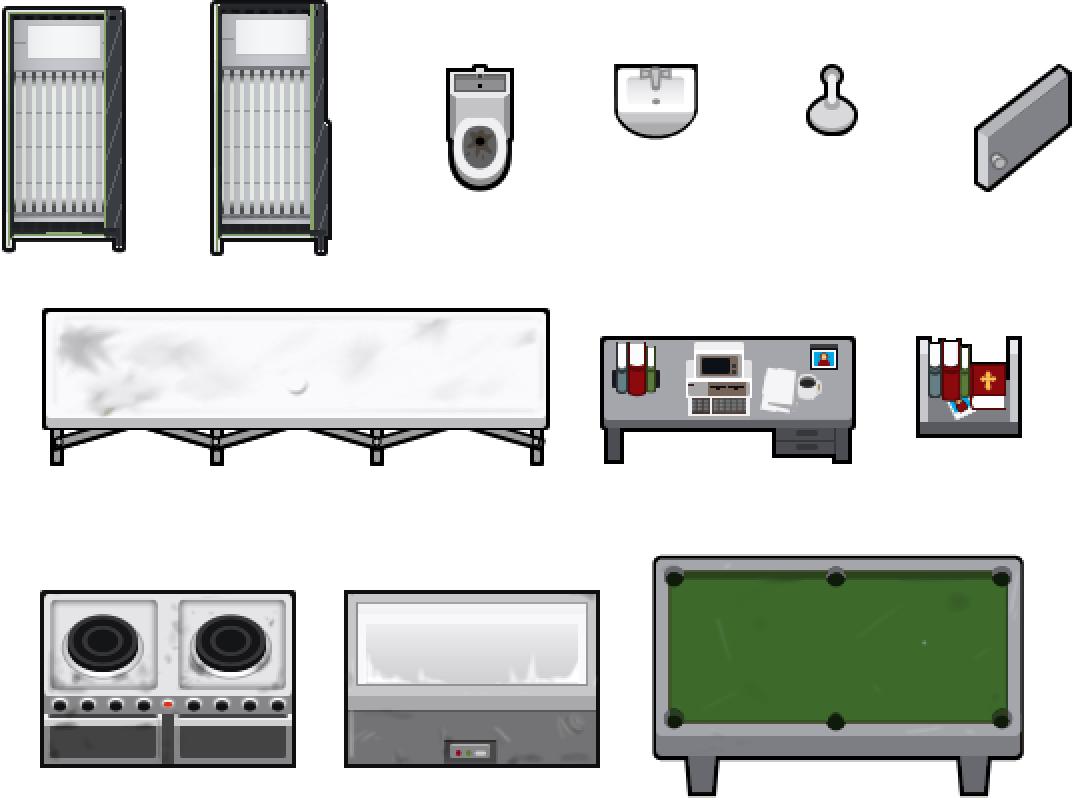
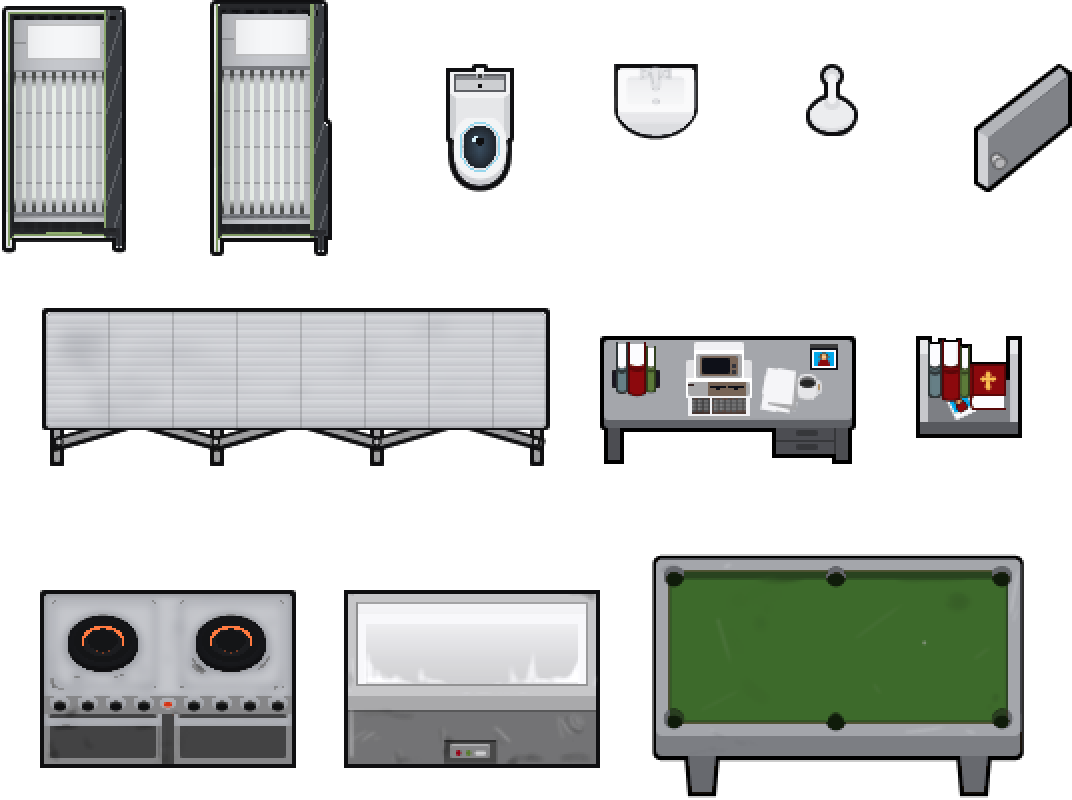
Draw the wash fixtures, canteen surfaces, cooker and cell doors by hand
Each is drawn from what the game's own sprite shows: a bowl rim, a hob
ring, a table top. Stains go and fittings stay, because a stain is warm
and a fitting is neutral.

Rotate type 1 has three pictures far more often than four. Measured over
233 sprites the fourth resembles its sprite three times in ten, so it is
claimed only when it matches the third. A small sprite inside another's
picture that shares its colours is a reused texture and follows its host,
which removes the white square the crate label left on the canteen table.

diff --git a/tools/skin.py b/tools/skin.py
@@ -42,7 +42,7 @@ ACCENT_ORDER = list(ACCENTS)
 # the outline, the size and where the light falls, and everything inside the
 # outline is drawn again. Because it works from the outline it holds for every
 # view of an object and on every sheet.
-REMAKES = ("none", "pod", "slab", "console", "sanitary", "rack", "core", "crate", "bulkhead", "seat", "emitter", "vehicle", "glass", "tray", "paintdoor")
+REMAKES = ("none", "pod", "slab", "console", "sanitary", "rack", "core", "crate", "bulkhead", "seat", "emitter", "vehicle", "glass", "tray", "paintdoor", "fixture", "surface", "hob", "bars")
 WHITE = [(0.00, (40, 41, 44)), (0.45, (150, 152, 156)), (0.80, (226, 227, 230)), (1.00, (250, 250, 251))]
 
 
@@ -150,6 +150,83 @@ def remake(out, lum, solid, dist, arche, accent, rgb_in, owner=None):
             sheen = np.clip(1.10 - 0.25 * (yy - ys.min()) / max(1, ys.max() - ys.min()), 0.85, 1.10)[..., None]
             px[deep] = np.clip(px[deep] * sheen[deep], 0, 255)
             px[m & (d >= 3.2) & (d < 4.2)] = tint * 0.8
+        elif kind == "fixture":
+            # Wash fixtures. Porcelain comes out as clean white composite with the
+            # game's broad shading but none of its stains, the fittings as chrome,
+            # and a bowl as dark glass with one thin line of light round its rim.
+            h_, s_, v_ = hsv(rgb_in[box])
+            # A stain is warm and a fitting is neutral, so only warm pixels are
+            # smoothed away. Taps, basin lines, drains and drainer ridges are
+            # neutral grey and keep every pixel of their shading.
+            soft = nd.gaussian_filter(np.where(m, l, float(l[m].mean())), 2.5)
+            stain = m & (s_ > 0.10) & ((h_ < 70) | (h_ > 320))
+            tone = np.where(stain, np.maximum(soft, l), l)
+            shell = m & (tone > 0.55) & ((s_ < 0.30) | stain)
+            px[shell] = ramp(WHITE, np.clip(0.30 + 0.72 * tone, 0, 1)[shell])
+            chrome = m & (s_ < 0.18) & (l > 0.28) & (l <= 0.55)
+            px[chrome] = ramp(STEEL, np.clip(0.30 + 1.15 * (l - 0.28) / 0.27 * 0.6, 0, 1)[chrome])
+            pit = nd.binary_opening(m & (d >= 3) & (l < 0.48), iterations=1)
+            pits, count = nd.label(pit)
+            for j in range(1, count + 1):
+                bowl = pits == j
+                if bowl.sum() < 40:
+                    continue
+                bowl = nd.binary_fill_holes(nd.binary_closing(bowl, iterations=2)) & m
+                by, bx = np.nonzero(bowl)
+                depth = nd.distance_transform_edt(bowl)
+                glass = np.array([30, 34, 40.0])[None, :] + (depth[bowl] / max(1.0, depth.max()))[:, None] * np.array([26, 40, 52.0])
+                px[bowl] = glass
+                glint = bowl & (np.hypot(yy - (by.min() + 0.32 * (by.max() - by.min())), xx - (bx.min() + 0.36 * (bx.max() - bx.min()))) < 1.6)
+                px[glint] = np.array([210, 236, 246.0])
+                lip = nd.binary_dilation(bowl, iterations=2) & ~nd.binary_dilation(bowl, iterations=1) & m
+                px[lip] = np.array([150, 214, 236.0])
+        elif kind == "surface":
+            # Canteen tables, benches and serving counters. The top is one
+            # manufactured sheet: the game's broad light without its smears, a
+            # brushed grain along its length and a panel joint every metre.
+            h_, s_, v_ = hsv(rgb_in[box])
+            top = nd.binary_opening(m & (l > 0.58) & (s_ < 0.22), iterations=2)
+            if top.any():
+                ty, tx = np.nonzero(top)
+                wide = (tx.max() - tx.min()) >= (ty.max() - ty.min())
+                soft = nd.gaussian_filter(np.where(top, l, float(l[top].mean())), 3.0)
+                run = xx if wide else yy
+                over = yy if wide else xx
+                grain = (((over * 2654435761) % 7) / 7.0 - 0.5) * 0.035
+                px[top] = ramp(STEEL, np.clip(0.74 + 0.22 * soft + grain, 0, 1)[top])
+                joint = top & ((run - (tx.min() if wide else ty.min())) % 32 == 31)
+                px[joint] *= 0.86
+                edge = top & ~nd.binary_erosion(top, iterations=1)
+                px[edge] *= 0.90
+        elif kind == "hob":
+            # An induction cooker. Each ring the game drew becomes a disc of black
+            # glass with one fine heat line; the steel round it is cleaned.
+            h_, s_, v_ = hsv(rgb_in[box])
+            steel = m & (l > 0.55) & (s_ < 0.22)
+            soft = nd.gaussian_filter(np.where(m, l, float(l[m].mean())), 2.0)
+            px[steel] = ramp(STEEL, np.clip(0.70 + 0.26 * soft, 0, 1)[steel])
+            dark = nd.binary_opening(m & (d >= 3) & (l < 0.32), iterations=1)
+            rings, count = nd.label(nd.binary_fill_holes(nd.binary_closing(dark, iterations=2)))
+            for j, sl in enumerate(nd.find_objects(rings), 1):
+                disc = rings == j
+                area = disc.sum()
+                hh, ww = sl[0].stop - sl[0].start, sl[1].stop - sl[1].start
+                if area < 150 or not 0.6 < hh / max(1, ww) < 1.6 or not 0.62 < area / (hh * ww) < 0.92:
+                    continue                 # a ring is round; the oven door and the shadows are not
+                cy, cx = (sl[0].start + sl[0].stop - 1) / 2, (sl[1].start + sl[1].stop - 1) / 2
+                # the game draws a hob as an ellipse, so the heat line is one too
+                r = np.hypot((yy - cy) / (hh / 2), (xx - cx) / (ww / 2))
+                px[disc] = np.array([20, 21, 24.0])[None, :] + (np.clip(1 - r, 0, 1)[disc] * 14)[:, None]
+                px[disc & (np.abs(r - 0.60) < 1.5 / min(hh, ww))] = np.array([255, 122, 64.0])
+                px[disc & (np.abs(r - 0.28) < 1.2 / min(hh, ww))] = np.array([120, 58, 34.0])
+        elif kind == "bars":
+            # A cell door. Bars in polished steel, the wooden frame in graphite,
+            # and the colour band untouched.
+            h_, s_, v_ = hsv(rgb_in[box])
+            bar = m & (s_ < 0.20) & (l > 0.45)
+            px[bar] = ramp(STEEL, np.clip(0.5 + (l - 0.62) * 2.0, 0, 1)[bar])
+            frame = m & (h_ >= 8) & (h_ <= 50) & (s_ > 0.25) & (v_ < 0.50)
+            px[frame] = ramp(PANEL, np.clip(0.25 + 1.2 * l, 0, 1)[frame])
         elif kind == "console":
             # Everything the base pass made of the object stays. The one addition
             # is power: a display the game drew, vivid green or cyan or the paler

diff --git a/tools/gen_assets.py b/tools/gen_assets.py
@@ -65,6 +65,11 @@ PURPOSE = tuple((skin.ACCENT_ORDER.index(k), re.compile(v)) for k, v in PURPOSE)
 # Which kinds of object are rebuilt rather than recoloured, by name. First
 # match wins. See skin.REMAKES.
 REMADE = (
+    # drawn by hand, one object at a time, from what the game's own sprite shows
+    ("fixture", r"^(Toilet|Sink|ShowerHead|KitchenSink)$"),
+    ("surface", r"^(Table|TableSmall|Bench|BenchFullRotate|BenchSmallFullRotate|SmallBench|SmallTable|ServingTable|SmallServingTable)$"),
+    ("hob", r"^Cooker$"),
+    ("bars", r"^JailDoor\w*$"),
     ("none", r"GunRack|DumbbellRack|ShopShelfGoods|DoorMat|RoadGatePosts|LightningRod|Lighter|BoatDock|HorizontalBridge|Rotor|HeliInside|BoxingRing|CrateLabel|Sign$"),
     ("console", r"DoorControl|DoorServo|DoorTimer|MachineDoor|CabinetDoor|PhoneBooth|VideoCallBooth"),
     ("tray", r"MorgueSlab|Stretcher"),
@@ -100,6 +105,7 @@ def trim_maps(size, bank, drawn=None):
     accent, style, bare, arche, kept = (np.zeros(shape, np.uint8) for _ in range(5))
     owner = np.zeros(shape, np.int32)     # which picture a pixel belongs to: sprites that touch stay apart
     serial = [0]
+    claimed = {}                           # owner id -> the rectangle that claimed it
     gap = np.full(shape, 9999, np.int32)   # how far each claimed pixel sits from the sprite that claimed it
     found = [s for s in sprites(bank) if s[1] * CELL < size[0] and s[2] * CELL < size[1]]
     # Toolbar pictures and icons are often a crop of the object itself, so they go
@@ -107,11 +113,12 @@ def trim_maps(size, bank, drawn=None):
     found.sort(key=lambda f: not ("Toolbar" in f[0] or f[0].endswith("Icon")))
 
     def values(name):
-        base = re.sub(r"^(d_)?", "", name)
+        # a toolbar picture or an icon is classed as the object it shows
+        base = re.sub(r"(_?Tool[Bb]ar|Icon)$", "", re.sub(r"^(d_)?", "", name))
         return (next((i for i, rx in PURPOSE if rx.search(base)), 0),
                 zlib.crc32(base.encode()) % 4,
                 1 if NO_STRIP.match(name) or PAINTED.search(base) else 0,
-                0 if NO_STRIP.match(name) else next((i for i, rx in REMADE if rx.search(base)), 0),
+                next((i for i, rx in REMADE if rx.search(base)), 0) if (not NO_STRIP.match(name) or re.match(r"JailDoor", base)) else 0,
                 1 if KEEP.match(name) else 0)
 
     def write(rect, vals, far=0):
@@ -127,12 +134,60 @@ def trim_maps(size, bank, drawn=None):
                 m[y0:y1, x0:x1][win] = v
             serial[0] += 1
             owner[y0:y1, x0:x1][win] = serial[0]
+            claimed[serial[0]] = rect
             gap[y0:y1, x0:x1][win] = far
 
+    def likeness_sub(small, host):
+        """A patch against the part of its host around it: are the patch's colours the host's?"""
+        x, y, w, h = small
+        block = drawn[y * CELL:(y + h) * CELL, x * CELL:(x + w) * CELL]
+        on = block[..., 3] > 127
+        if on.mean() < 0.5:
+            return 1.0          # mostly empty: something drawn in a gap, not a patch of the host
+        return likeness(small, host)
+
+    def likeness(rect_a, rect_b):
+        """How unlike two rectangles are, by colour: 0 the same, 1 nothing shared."""
+        hists, cover = [], []
+        for x, y, w, h in (rect_a, rect_b):
+            x0, y0, x1, y1 = max(0, x * CELL), max(0, y * CELL), min(size[0], (x + w) * CELL), min(size[1], (y + h) * CELL)
+            if x1 <= x0 or y1 <= y0:
+                return 1.0
+            block = drawn[y0:y1, x0:x1]
+            on = block[..., 3] > 127
+            if on.mean() < 0.03:
+                return 1.0
+            hist = np.histogramdd(block[..., :3][on], bins=(4, 4, 4), range=((0, 256),) * 3)[0].ravel()
+            hists.append(hist / hist.sum())
+            cover.append(float(on.mean()))
+        return 0.5 * float(np.abs(hists[0] - hists[1]).sum())
+
+    # Measured over all 233 sprites of rotate type 1: the second and third
+    # pictures resemble their sprite about nine times in ten, and the rest are
+    # real facings that differ, a television's back for one. The fourth does so
+    # only three times in ten, because the game mostly mirrors the side view and
+    # that ground belongs to a neighbour. So the fourth has to look the part.
     for name, x, y, w, h, rot in found:
-        for rect in view_rects(x, y, w, h, rot):
-            write(rect, values(name), far=max(1, rect[0] - x))
+        rects = view_rects(x, y, w, h, rot)
+        for k, rect in enumerate(rects):
+            # the fourth is the third mirrored, so it is judged against the third
+            fourth = rot == 1 and k == 2
+            if not fourth or drawn is None or likeness(rects[1], rect) <= 0.20:
+                write(rect, values(name), far=max(1, rect[0] - x))
     for name, x, y, w, h, rot in found:
+        # A sprite lying wholly inside a picture already claimed is one of two
+        # things. A toolbar picture, an icon, or a patch of the host reused as a
+        # texture - the crate label is a square of the white canteen table -
+        # shares the host's colours and follows it. A different sprite packed
+        # into a gap does not, and stays itself.
+        crop = re.search(r"(_?Tool[Bb]ar|Icon)$", name)
+        inside = owner[y * CELL:min(size[1], (y + h) * CELL), x * CELL:min(size[0], (x + w) * CELL)]
+        if inside.size and inside.min() == inside.max() and inside.min() > 0:
+            host = claimed[int(inside.min())]
+            reused = (not KEEP.match(name) and drawn is not None and w * h * 4 <= host[2] * host[3]
+                      and likeness_sub((x, y, w, h), host) <= 0.35)
+            if crop or reused:
+                continue
         write((x, y, w, h), values(name))
     # A kept sprite's other pictures are not always where its rotate type puts
     # them. They are unnamed and can sit on either side of it - a stack of meals is named at

diff --git a/README.md b/README.md
@@ -15,6 +15,10 @@ object, price, room or rule is touched.
 | Pale blue: ice, water, a lit screen | Left exactly alone |
 | Beds, bunks, double and medical beds | A sleep capsule: composite hull, headrest, rows of light tubes, a raised smoked lid, a console at the foot, accented in the colour of the bed's own bedding |
 | The autopsy table | Brushed steel, with its sink, tap, grating and stains all kept |
+| Toilet, sink, shower head, kitchen sink | Clean white composite with the stains gone and every fitting kept; a toilet bowl is dark glass with one line of light round its rim |
+| Canteen table, bench, serving table and their small versions | One brushed steel sheet, the smears gone, with a panel joint every metre |
+| Cooker | Induction: each ring is a disc of black glass with a fine heat line, on cleaned steel |
+| Jail doors | Polished bars in a graphite frame, the colour band untouched |
 | Displays the game drew: monitor walls, arcade and machine screens | Lit in their own colour, with scanlines |
 
 ## What never changes
@@ -32,6 +36,17 @@ draws over things are left exactly as the game drew them. A kept sprite's other
 pictures are often unnamed in the sprite bank, so the generator also keeps any
 picture beside one that shares its colours. An icon cropped from an object
 follows that object.
+
+## Which pictures belong to an object
+
+A sprite bank names one picture of an object and the game finds the other
+facings by rotate type. Measured over all 233 sprites of rotate type 1, the
+second and third pictures resemble their sprite about nine times in ten, and the
+fourth only three times in ten, because the game mostly mirrors the side view
+and that ground belongs to a neighbour. So the fourth is claimed only when it
+matches the third. A small sprite lying inside another's picture and sharing its
+colours is a reused texture, the crate label being a square of the white canteen
+table, and follows its host.
 
 ## How it is built
 
